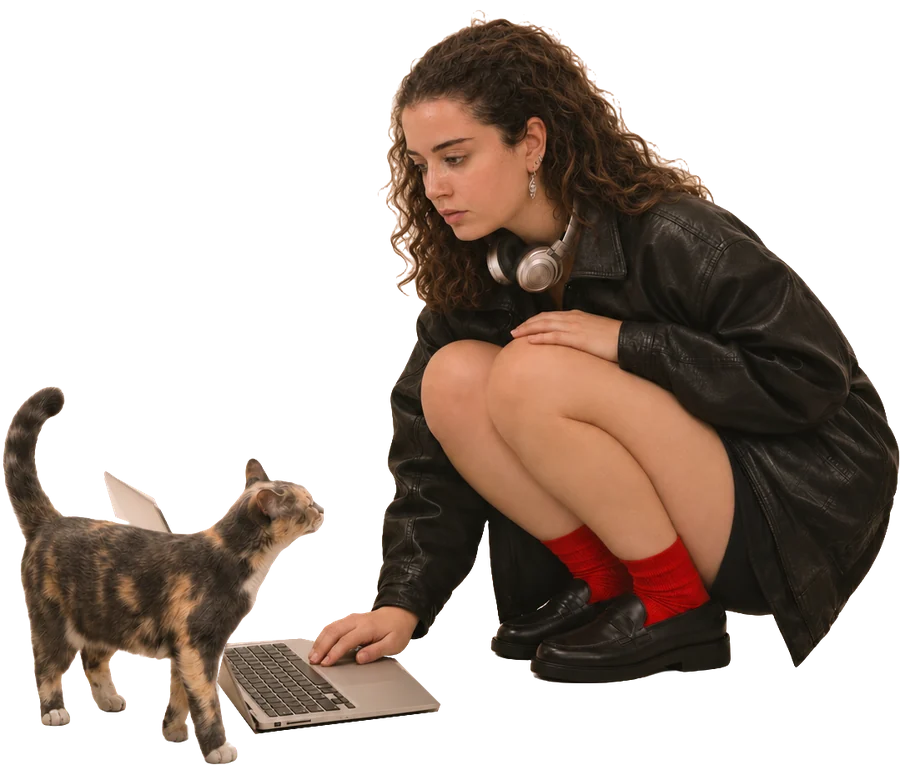
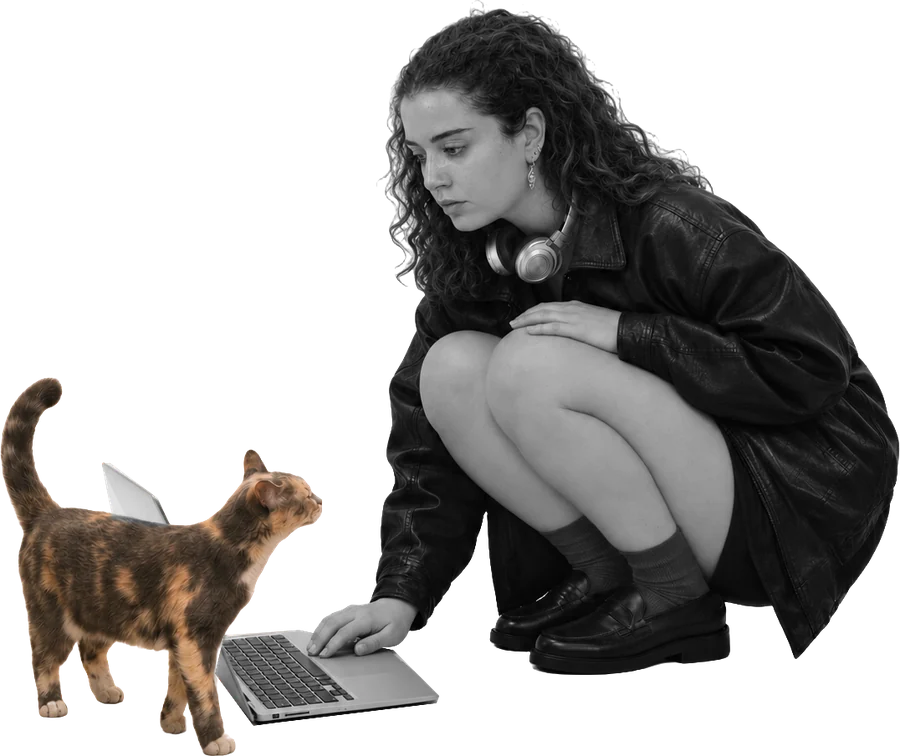
אודות: הטקסט עוטף את התמונה, התמונה בשחור לבן חוץ מהחתולה, ותיקון החיתוך בין החתולה ללפטופ
Claude-Session: https://claude.ai/code/session_01EdftsxnPsh1hyQnG82iFW6

diff --git a/index.html b/index.html
@@ -362,12 +362,12 @@ p{margin:0}
 .mb-base::after{content:"";position:absolute;left:30%;right:30%;bottom:-.235em;height:.05em;clip-path:polygon(0 0,100% 0,50% 100%);background:#5A5A5E}
 :root[data-theme="dark"] .mb-lid{box-shadow:inset 0 0 0 .03em #4A4A4F,0 0 0 .025em #5A5A5F,0 .16em .36em -.1em rgba(0,0,0,.6)}
 @media (max-width:640px){.portrait{width:4.9em;margin-inline-end:.5em;margin-top:.25em}.mb-base{height:4.8em}}
-/* her photo with the cat (background removed, flipped to face the text): beside the steps at the bottom, on the end side */
-.about-me{display:block;pointer-events:none}
+/* her photo with the cat (background removed, flipped to face the text): floats on the end side of the bio, and the text wraps into the empty space above the cat */
+.about-me{float:right;width:44%;margin:.1em 0 .4em .5em;shape-outside:polygon(47% 0,40% 6%,38% 46%,0 50%,0 100%,100% 100%,100% 0);shape-margin:14px;pointer-events:none}
+[dir="rtl"] .about-me{float:left;margin:.1em .5em .4em 0;shape-outside:polygon(53% 0,60% 6%,62% 46%,100% 50%,100% 100%,0 100%,0 0)}
 .about-me img{display:block;width:100%;height:auto}
 [dir="rtl"] .about-me img{transform:scaleX(-1)}
-@media (min-width:821px){.about .steps{grid-row:3;grid-column:3/9}.about-me{grid-row:3;grid-column:9/13;align-self:end;position:relative;z-index:6;margin-inline-start:-16px}}
-@media (max-width:820px){.about-me{grid-column:1/-1;justify-self:end;width:min(88%,460px);margin:8px 0 -8px}}
+@media (max-width:640px){.about-me{width:100%;clear:both;margin:.3em 0 .2em}[dir="rtl"] .about-me{margin:.3em 0 .2em}}
 .clip{position:absolute;top:-14px;inset-inline-end:12px;width:18px;height:46px;z-index:2}
 @media (max-width:820px){.facts{grid-column:1/-1;flex-direction:row;flex-wrap:wrap;order:2}.bio{grid-column:1/-1}}
 
@@ -655,10 +655,9 @@ From the first idea to the real thing.</p>
     <div><b data-t="f3k">Availability</b><span data-t="f3v">Open to projects</span></div>
   </div>
   <div class="bio">
-    <p><span class="portrait"><span class="mb-lid"><span class="pf"><img id="pf-img" src="about/frames/f00.webp" alt="" width="480" height="480" decoding="async"><svg class="pc-ui" viewBox="0 0 100 144" preserveAspectRatio="xMidYMin slice" aria-hidden="true"><rect width="100" height="8" fill="#1C1C1E" opacity=".86"/><text x="3" y="5.4" font-size="3.4" font-family="-apple-system,Helvetica,Arial,sans-serif" fill="#fff">Gallery</text><g fill="none" stroke="#fff" stroke-width=".55" stroke-linecap="round" stroke-linejoin="round"><path d="M18.2 5.6l2.6-2.6m-.4-.6a1 1 0 1 0 1 1"/><path d="M24 5.6l2.4-2.4M27 2.2l.3.6.6.3-.6.3-.3.6-.3-.6-.6-.3.6-.3z"/><path d="M32.6 2.6c-.6-.5-2-.4-2 .5 0 1.2 2.2.8 2.2 2 0 .9-1.5 1-2.2.4"/><path d="M36 4h3m-.9-.9.9.9-.9.9M37.5 2.5v3"/><path d="M66 5.8l2.6-3.2.5.4-2.6 3.2z"/><path d="M72.6 5.8c0-1.4 1.2-1.8 1.6-3.4.5 1.6 1.4 2 1 3.4"/><path d="M79.6 5.6l2.2-2.4 1 .9-2.2 2.4z"/><rect x="85.4" y="2.4" width="2.6" height="2.6" rx=".3"/><path d="M85 3.4v2.2h2.4"/></g><circle cx="94.2" cy="4" r="1.9" fill="#2F80FF" stroke="#fff" stroke-width=".4"/><rect x="1.6" y="44" width="4.6" height="48" rx="2.3" fill="#2C2C2E" opacity=".82"/><rect x="3.4" y="47" width="1" height="16" rx=".5" fill="#8E8E93"/><rect x="2.4" y="52" width="3" height="2.6" rx=".6" fill="#fff"/><rect x="2.6" y="65.2" width="2.6" height="2.6" rx=".5" fill="none" stroke="#C7C7CC" stroke-width=".45"/><rect x="3.4" y="70" width="1" height="14" rx=".5" fill="#8E8E93"/><rect x="2.4" y="74" width="3" height="2.6" rx=".6" fill="#fff"/><g fill="none" stroke="#fff" stroke-width=".5" stroke-linecap="round" stroke-linejoin="round"><path d="M5.1 86.4h-2.2m.8-.8-.8.8.8.8"/><path d="M2.7 89.6h2.2m-.8-.8.8.8-.8.8"/></g></svg></span></span><span class="mb-base"></span></span><strong style="font-weight:500" data-t="bioName">Inbal Oz</strong> <span data-t="bio1">is a graphic designer working on the line between paper and screen. I build identities, packaging and invitations you want to hold, and I draw when words are not enough.</span></p>
+    <p><span class="portrait"><span class="mb-lid"><span class="pf"><img id="pf-img" src="about/frames/f00.webp" alt="" width="480" height="480" decoding="async"><svg class="pc-ui" viewBox="0 0 100 144" preserveAspectRatio="xMidYMin slice" aria-hidden="true"><rect width="100" height="8" fill="#1C1C1E" opacity=".86"/><text x="3" y="5.4" font-size="3.4" font-family="-apple-system,Helvetica,Arial,sans-serif" fill="#fff">Gallery</text><g fill="none" stroke="#fff" stroke-width=".55" stroke-linecap="round" stroke-linejoin="round"><path d="M18.2 5.6l2.6-2.6m-.4-.6a1 1 0 1 0 1 1"/><path d="M24 5.6l2.4-2.4M27 2.2l.3.6.6.3-.6.3-.3.6-.3-.6-.6-.3.6-.3z"/><path d="M32.6 2.6c-.6-.5-2-.4-2 .5 0 1.2 2.2.8 2.2 2 0 .9-1.5 1-2.2.4"/><path d="M36 4h3m-.9-.9.9.9-.9.9M37.5 2.5v3"/><path d="M66 5.8l2.6-3.2.5.4-2.6 3.2z"/><path d="M72.6 5.8c0-1.4 1.2-1.8 1.6-3.4.5 1.6 1.4 2 1 3.4"/><path d="M79.6 5.6l2.2-2.4 1 .9-2.2 2.4z"/><rect x="85.4" y="2.4" width="2.6" height="2.6" rx=".3"/><path d="M85 3.4v2.2h2.4"/></g><circle cx="94.2" cy="4" r="1.9" fill="#2F80FF" stroke="#fff" stroke-width=".4"/><rect x="1.6" y="44" width="4.6" height="48" rx="2.3" fill="#2C2C2E" opacity=".82"/><rect x="3.4" y="47" width="1" height="16" rx=".5" fill="#8E8E93"/><rect x="2.4" y="52" width="3" height="2.6" rx=".6" fill="#fff"/><rect x="2.6" y="65.2" width="2.6" height="2.6" rx=".5" fill="none" stroke="#C7C7CC" stroke-width=".45"/><rect x="3.4" y="70" width="1" height="14" rx=".5" fill="#8E8E93"/><rect x="2.4" y="74" width="3" height="2.6" rx=".6" fill="#fff"/><g fill="none" stroke="#fff" stroke-width=".5" stroke-linecap="round" stroke-linejoin="round"><path d="M5.1 86.4h-2.2m.8-.8-.8.8.8.8"/><path d="M2.7 89.6h2.2m-.8-.8.8.8-.8.8"/></g></svg></span></span><span class="mb-base"></span></span><picture class="about-me"><source media="(max-width:640px)" srcset="about/about-cat-m.webp"><img src="about/about-cat.webp" alt="Inbal crouching by a laptop on the floor, a cat walking up to it" width="900" height="765" loading="lazy" decoding="async"></picture><strong style="font-weight:500" data-t="bioName">Inbal Oz</strong> <span data-t="bio1">is a graphic designer working on the line between paper and screen. I build identities, packaging and invitations you want to hold, and I draw when words are not enough.</span></p>
     <p data-t="bio2">This text is a draft. We will write it together, in your words.</p>
   </div>
-  <picture class="about-me"><source media="(max-width:640px)" srcset="about/about-cat-m.webp"><img src="about/about-cat.webp" alt="Inbal crouching by a laptop on the floor, a cat walking up to it" width="900" height="765" loading="lazy" decoding="async"></picture>
   <ol class="steps">
     <li><b>A</b><span><strong data-t="sA">Conversation</strong><span data-t="sAd">We talk about what it's for, who will see it, and what you already have.</span></span></li>
     <li><b>B</b><span><strong data-t="sB">Idea and sketches</strong><span data-t="sBd">A few quick directions on paper, before anything is polished.</span></span></li>
